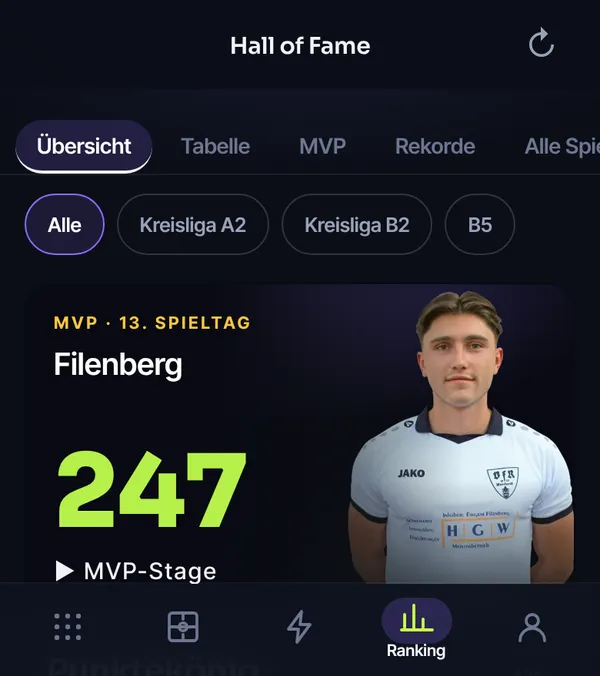
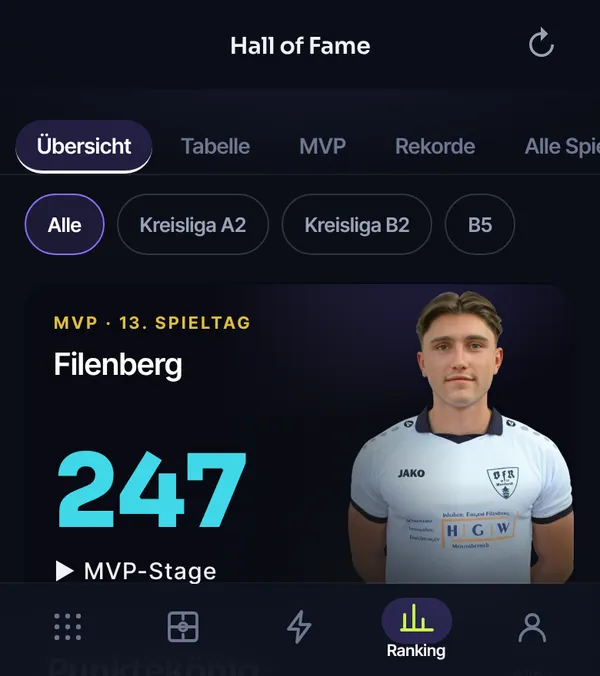
Punktefarben wie in Version 1, Dunkelgruen wird Kreo-Blau
- Stufen wieder rot/orange/hellgruen/gold mit den alten Grenzen (0/100/200/400)
- 200-399 Punkte und Trend nach oben jetzt Kreo-Blau (#3FD8E8) statt Dunkelgruen
- Minus-Farbe wieder wie frueher
- Rundgang-Bilder mit den Farben neu aufgenommen, Version 2.0.2

Claude-Session: https://claude.ai/code/session_01RQDoQ1KZNpAJJtEqobzs28

Changed region(s): [[0.09, 0.6524, 0.42, 0.8077]]

diff --git a/css/brand.css b/css/brand.css
@@ -236,7 +236,7 @@ body.ended .cta button { background: rgba(11, 14, 23, .88); color: var(--ink); b
 /* ---------- Spieltag-Karte (Liga) ---------- */
 .lh2 small { margin-left: 10px; font: 600 12px var(--font-body); letter-spacing: .08em; color: var(--muted2); text-transform: none; }
 .md-next { display: flex; align-items: center; gap: 10px; margin: -2px 0 12px; padding: 12px 14px; border-radius: 12px; background: var(--surface); font-size: 14px; }
-.md-next i { width: 8px; height: 8px; border-radius: 50%; background: #FFC83D; box-shadow: 0 0 0 4px rgba(255, 200, 61, .18); }
+.md-next i { width: 8px; height: 8px; border-radius: 50%; background: #E1BE38; box-shadow: 0 0 0 4px rgba(225, 190, 56, .18); }
 .md-next b { font-weight: 700; margin-right: 4px; }
 .md-next small { margin-left: auto; color: var(--muted); font-size: 12.5px; }
 .mdc { padding: 16px 14px 14px; border-radius: 16px; background: linear-gradient(180deg, #1A2032, var(--surface)); }
@@ -245,7 +245,7 @@ body.ended .cta button { background: rgba(11, 14, 23, .88); color: var(--ink); b
 .mdc-p .hav { width: 58px; height: 58px; border: 2px solid var(--c, var(--line)); }
 .mdc-p.r1 .hav { width: 76px; height: 76px; }
 .mdc-p i { position: absolute; top: -4px; left: calc(50% + 16px); width: 22px; height: 22px; border-radius: 50%; display: grid; place-items: center; background: var(--ink); color: var(--bg); font: 800 12px var(--font-display); font-style: normal; }
-.mdc-p.r1 i { left: calc(50% + 24px); background: #FFC83D; }
+.mdc-p.r1 i { left: calc(50% + 24px); background: #E1BE38; }
 .mdc-p span { max-width: 100%; font: 600 13.5px var(--font-body); overflow: hidden; text-overflow: ellipsis; white-space: nowrap; }
 .mdc-p b { font: 800 20px/1 var(--font-display); color: var(--ct); }
 .mdc-go { margin-top: 14px; min-height: 48px; display: flex; align-items: center; justify-content: center; gap: 8px; }
@@ -290,11 +290,11 @@ body.ended .cta button { background: rgba(11, 14, 23, .88); color: var(--ink); b
 .mp.on .mp-blk { transform: none; }
 .mp.on .mp-ph { opacity: 1; transform: none; }
 .mp.on .mp-n, .mp.on .mp-v { opacity: 1; }
-.r1.on .mp-blk { box-shadow: 0 -10px 60px rgba(255, 200, 61, .25); }
+.r1.on .mp-blk { box-shadow: 0 -10px 60px rgba(225, 190, 56, .25); }
 /* Trommelwirbel vor Platz 1 */
 .mvp.mvp-drum .mvp-pod::before { content: ""; position: absolute; left: 50%; bottom: 0; width: 34%; height: 22vh; transform: translateX(-50%); border-radius: 14px 14px 0 0;
-  background: rgba(255, 200, 61, .12); animation: mvpdrum .25s ease-in-out infinite alternate; }
-@keyframes mvpdrum { to { background: rgba(255, 200, 61, .3); } }
+  background: rgba(225, 190, 56, .12); animation: mvpdrum .25s ease-in-out infinite alternate; }
+@keyframes mvpdrum { to { background: rgba(225, 190, 56, .3); } }
 .mvp-cf { position: absolute; left: 50%; top: 35%; width: 8px; height: 13px; border-radius: 2px; pointer-events: none; z-index: 2; }
 .mvp-cta { flex: none; display: grid; grid-template-columns: 1fr 1.4fr; gap: 10px; margin-top: 16px; opacity: 0; transform: translateY(10px); transition: opacity .5s, transform .5s; pointer-events: none; }
 .mvp.mvp-done .mvp-cta { opacity: 1; transform: none; pointer-events: auto; }
@@ -338,7 +338,7 @@ body.ended .cta button { background: rgba(11, 14, 23, .88); color: var(--ink); b
 .hb-n small i { font-style: normal; font-weight: 600; }
 .hb-v { font: 800 20px/1 var(--font-display); color: var(--ct, var(--ink)); white-space: nowrap; }
 .hb-mvp { margin-bottom: 14px; }
-.hb-mvp .pw-k { color: #FFC83D; }
+.hb-mvp .pw-k { color: #E1BE38; }
 .hb-sort { display: flex; align-items: center; gap: 8px; margin-bottom: 12px; }
 .hb-sort button { min-height: 36px; padding: 0 14px; border-radius: 18px; border: 1px solid rgba(225, 230, 245, .18); background: none; color: var(--muted); font: 600 12px var(--font-body); letter-spacing: .06em; text-transform: uppercase; }
 .hb-sort button[aria-pressed="true"] { border-color: var(--ink); color: #fff; }
@@ -348,8 +348,8 @@ body.ended .cta button { background: rgba(11, 14, 23, .88); color: var(--ink); b
 #hofBody .mdc { margin-bottom: 12px; }
 
 /* Ankündigung MVP-Stage */
-.md-news { display: flex; align-items: center; gap: 10px; margin: -2px 0 12px; padding: 12px 6px 12px 14px; border-radius: 12px; border: 1px solid rgba(255, 200, 61, .4); background: rgba(255, 200, 61, .08); }
-.md-news-k { flex: none; padding: 3px 7px; border-radius: 5px; background: #FFC83D; color: #1f1600; font: 800 10.5px var(--font-body); letter-spacing: .1em; text-transform: uppercase; }
+.md-news { display: flex; align-items: center; gap: 10px; margin: -2px 0 12px; padding: 12px 6px 12px 14px; border-radius: 12px; border: 1px solid rgba(225, 190, 56, .4); background: rgba(225, 190, 56, .08); }
+.md-news-k { flex: none; padding: 3px 7px; border-radius: 5px; background: #E1BE38; color: #1f1600; font: 800 10.5px var(--font-body); letter-spacing: .1em; text-transform: uppercase; }
 .md-news b { flex: 1; font: 600 14px/1.3 var(--font-body); }
 .md-news-x { flex: none; width: 40px; height: 40px; border: 0; background: none; color: var(--muted); font: 300 26px/1 var(--font-body); }
 /* Spiel löschen (Korrektur-Modus) und Eintrager */
@@ -417,8 +417,8 @@ body.onehand #quick { display: none !important; }
 .trf-v span { font-size: 12.5px; color: var(--muted); }
 .trf-bar { height: 8px; margin-top: 12px; border-radius: 4px; background: var(--raised); overflow: hidden; }
 .trf-bar i { display: block; height: 100%; border-radius: 4px; background: var(--hi); }
-.trf.warn .trf-bar i { background: #8A93B0; }
-.trf.warn .trf-v strong { color: #8A93B0; }
+.trf.warn .trf-bar i { background: #ED8928; }
+.trf.warn .trf-v strong { color: #ED8928; }
 .trf-days { display: flex; align-items: flex-end; gap: 3px; height: 40px; margin-top: 12px; }
 .trf-days i { flex: 1; max-width: 12px; border-radius: 2px; background: rgba(225, 230, 245, .25); }
 

diff --git a/css/profile.css b/css/profile.css
@@ -57,7 +57,7 @@
 .pchips { display: flex; justify-content: center; flex-wrap: wrap; gap: 8px; margin-top: 14px; }
 .pchip { display: inline-flex; align-items: center; gap: 6px; min-height: 30px; padding: 0 12px; border-radius: 7px; background: #252D44; font: 600 14px var(--font-body); color: var(--ink); }
 .pchip .sti { width: 16px; height: 16px; }
-.pchip.st.hit { background: rgba(138, 147, 176, .2); color: #ffb067; }
+.pchip.st.hit { background: rgba(237, 137, 40, .2); color: #ffb067; }
 .pchip.st.inj { background: rgba(224, 52, 63, .2); color: #ff6a72; }
 
 .pbody { padding-top: 6px; }
@@ -102,7 +102,7 @@ body.multi .quick { top: calc(58px + var(--sqh, 88px) + env(safe-area-inset-top,
 .sqa { position: relative; width: 36px; height: 36px; border-radius: 50%; overflow: hidden; background: #252D44; }
 .sqa img { width: 170%; max-width: none; height: auto; display: block; margin: 1px 0 0 -35%; }
 .sqd { position: absolute; right: 1px; bottom: 1px; width: 10px; height: 10px; border-radius: 50%; background: #5D6580; box-shadow: 0 0 0 2px var(--surface); }
-.sqd.on { background: #B6F04A; }
+.sqd.on { background: #3FD8E8; }
 .sqn { max-width: 100%; font: 600 11.5px/1.2 var(--font-body); white-space: nowrap; overflow: hidden; text-overflow: ellipsis; color: var(--muted); }
 .sqb[aria-pressed="true"] .sqn { color: var(--ink); }
 .sqv { font: 800 15px/1 var(--font-display); color: var(--ct, var(--ink)); font-variant-numeric: tabular-nums; }
@@ -111,7 +111,7 @@ body.multi .quick { top: calc(58px + var(--sqh, 88px) + env(safe-area-inset-top,
 /* Aufstellung im Reiter „Spiel“ */
 .lups { list-style: none; margin: 0; padding: 0; display: grid; gap: 8px; }
 .lup { display: grid; grid-template-columns: 40px minmax(0, 1fr) auto; align-items: center; gap: 10px; padding: 8px 10px; border-radius: 14px; border: 1px solid var(--line); background: var(--surface); }
-.lup.on { border-color: rgba(182, 240, 74, .45); }
+.lup.on { border-color: rgba(63, 216, 232, .45); }
 .lup .hav { width: 40px; height: 40px; }
 .lup b { display: block; font: 600 15px var(--font-body); }
 .lup small { display: block; margin-top: 2px; color: var(--muted); font-size: 12px; }
@@ -155,8 +155,8 @@ body.multi .quick { top: calc(58px + var(--sqh, 88px) + env(safe-area-inset-top,
 .mw-r { display: flex; flex-wrap: wrap; align-items: center; gap: 6px; margin-top: 12px; font-size: 12.5px; }
 .mw-r b { font: 700 13px var(--font-body); margin-right: 2px; }
 .mw-r span { padding: 3px 8px; border-radius: 6px; background: rgba(255, 255, 255, .06); color: var(--muted); }
-.mw-r span.up { color: #B6F04A; background: rgba(182, 240, 74, .12); }
-.mw-r span.down { color: #ff6a4a; background: rgba(255, 92, 122, .12); }
+.mw-r span.up { color: #3FD8E8; background: rgba(63, 216, 232, .12); }
+.mw-r span.down { color: #ff6a4a; background: rgba(255, 90, 42, .12); }
 
 /* ---------- Mein Bereich ---------- */
 .mecard { display: grid; grid-template-columns: 52px minmax(0, 1fr) 14px; align-items: center; gap: 12px; width: 100%; margin: 4px 0 10px; padding: 12px; border-radius: 16px;
@@ -203,7 +203,7 @@ body.multi .quick { top: calc(58px + var(--sqh, 88px) + env(safe-area-inset-top,
 .vs-h { display: flex; align-items: baseline; gap: 8px; margin-bottom: 6px; font-size: 14px; }
 .vs-h span { flex: 1; color: var(--muted); }
 .vs-h b { font: 800 18px var(--font-display); }
-.vs-h b.up { color: #B6F04A; } .vs-h b.down { color: #ff6a4a; }
+.vs-h b.up { color: #3FD8E8; } .vs-h b.down { color: #ff6a4a; }
 .vs-h em { font-style: normal; font-size: 12.5px; color: var(--muted); }
 .vs-b { height: 7px; border-radius: 4px; background: rgba(255, 255, 255, .05); margin-top: 4px; overflow: hidden; }
 .vs-b i { display: block; height: 100%; border-radius: 4px; background: #5D6580; }
@@ -215,16 +215,16 @@ body.multi .quick { top: calc(58px + var(--sqh, 88px) + env(safe-area-inset-top,
 .ach.lv1 .ach-i, .ach.lv2 .ach-i, .ach.lv3 .ach-i { filter: none; opacity: 1; }
 .ach.lv1 .ach-i { background: rgba(205, 127, 50, .22); box-shadow: inset 0 0 0 1.5px #cd7f32; }
 .ach.lv2 .ach-i { background: rgba(200, 208, 220, .2); box-shadow: inset 0 0 0 1.5px #c8d0dc; }
-.ach.lv3 .ach-i { background: rgba(255, 200, 61, .22); box-shadow: inset 0 0 0 1.5px #FFC83D; }
+.ach.lv3 .ach-i { background: rgba(225, 190, 56, .22); box-shadow: inset 0 0 0 1.5px #E1BE38; }
 .ach b { display: flex; align-items: center; gap: 8px; font: 600 15px var(--font-body); }
 .ach-t { font: 700 10px var(--font-body); font-style: normal; letter-spacing: .08em; text-transform: uppercase; padding: 2px 6px; border-radius: 4px; }
 .lv1 .ach-t { background: rgba(205, 127, 50, .25); color: #e5a46a; }
 .lv2 .ach-t { background: rgba(200, 208, 220, .2); color: #dfe5ee; }
-.lv3 .ach-t { background: rgba(255, 200, 61, .25); color: #f0d36a; }
+.lv3 .ach-t { background: rgba(225, 190, 56, .25); color: #f0d36a; }
 .ach small { display: block; margin: 2px 0 7px; color: var(--muted); font-size: 12.5px; }
 .ach-bar { display: block; height: 5px; border-radius: 3px; background: rgba(255, 255, 255, .07); overflow: hidden; }
 .ach-bar i { display: block; height: 100%; border-radius: 3px; background: var(--kb-red); }
-.ach.lv3 .ach-bar i { background: #FFC83D; }
+.ach.lv3 .ach-bar i { background: #E1BE38; }
 
 .mrecs { display: grid; grid-template-columns: 1fr 1fr; gap: 10px; }
 .mrec { display: grid; gap: 4px; align-content: start; justify-items: start; padding: 14px 12px; border-radius: 14px; border: 1px solid var(--line); background: var(--surface); text-align: left; color: var(--ink); min-width: 0; }

diff --git a/css/sheet.css b/css/sheet.css
@@ -43,11 +43,11 @@ body.sheet-open { overflow: hidden; }
 .kb-g em { font-style: normal; }
 .fdash { display: flex; gap: 4px; margin-bottom: 14px; }
 .fdash i { flex: 1; height: 5px; border-radius: 3px; background: rgba(225, 230, 245, .12); }
-.fdash i[data-tier="neg"] { background: #D63A5A; }
-.fdash i[data-tier="low"] { background: #8A93B0; }
-.fdash i[data-tier="mid"] { background: #3FD8E8; }
-.fdash i[data-tier="high"] { background: #B6F04A; }
-.fdash i[data-tier="top"] { background: #FFC83D; }
+.fdash i[data-tier="neg"] { background: #B3202A; }
+.fdash i[data-tier="low"] { background: #ED8928; }
+.fdash i[data-tier="mid"] { background: #9CE04A; }
+.fdash i[data-tier="high"] { background: #3FD8E8; }
+.fdash i[data-tier="top"] { background: #E1BE38; }
 .kb-arr { position: absolute; top: 10px; left: 14px; font: 700 20px/1 var(--font-body); font-style: normal; }
 .bsheet .up { color: var(--hi); } .bsheet .down { color: var(--neg); } .bsheet .flat { color: var(--muted); }
 
@@ -69,13 +69,13 @@ body.sheet-open { overflow: hidden; }
 .kbst > div:first-child { display: flex; align-items: center; gap: 10px; min-width: 0; flex-wrap: wrap; }
 .kbst small { color: var(--muted); font-size: 12.5px; }
 .kb-ok { width: 26px; height: 26px; border-radius: 50%; display: grid; place-items: center; font: 800 14px/1 var(--font-body); font-style: normal; background: var(--hi); color: #03170C; }
-.kb-ok.hit { background: #8A93B0; color: #1A1000; }
-.kb-ok.inj { background: #FF5C7A; color: #fff; }
+.kb-ok.hit { background: #ED8928; color: #1A1000; }
+.kb-ok.inj { background: #E0343F; color: #fff; }
 .kb-cards { display: flex; gap: 12px; flex: none; font: 600 14px var(--font-body); }
 .kb-cards span { display: inline-flex; align-items: center; gap: 5px; }
 .kb-cards i { width: 12px; height: 16px; border-radius: 2px; }
 .kb-cards .cy { background: #F5C518; }
-.kb-cards .cr { background: #FF5C7A; }
+.kb-cards .cr { background: #E0343F; }
 
 /* ---------- Marktwert ---------- */
 .mwh { display: flex; align-items: flex-start; justify-content: space-between; gap: 12px; margin: 22px 0 10px; }
@@ -126,9 +126,9 @@ body.sheet-open { overflow: hidden; }
 .shb.lv0 svg { opacity: .55; }
 .shb.lv1 { --c: #cd7f32; --f: #2a1d12; }
 .shb.lv2 { --c: #c8d0dc; --f: #23272e; }
-.shb.lv3 { --c: #FFC83D; --f: #2a2410; }
+.shb.lv3 { --c: #E1BE38; --f: #2a2410; }
 .shb.sp.lv3 { --c: #8B6CFF; --f: #1f1730; }
-.shb.lv3 svg { filter: drop-shadow(0 0 8px rgba(255, 200, 61, .35)); }
+.shb.lv3 svg { filter: drop-shadow(0 0 8px rgba(225, 190, 56, .35)); }
 .shb.sp.lv3 svg { filter: drop-shadow(0 0 8px rgba(139, 108, 255, .4)); }
 
 /* ---------- Ruhiger, minimalistischer ---------- */

diff --git a/css/tokens.css b/css/tokens.css
@@ -7,24 +7,24 @@
   --line: rgba(225, 230, 245, .12);
   --ink: #F1F3FA;
   --muted: #9AA2B8;
-  --lime: #3FD8E8;
-  --hi: #B6F04A;
-  --neg: #FF5C7A;
-  --lime-bg: rgba(63, 216, 232, .14);
-  --hi-bg: rgba(182, 240, 74, .15);
-  --neg-bg: rgba(255, 92, 122, .15);
-  --tier: #8A93B0;
-  --tier-rgb: 138, 147, 176;
+  --lime: #9CE04A;
+  --hi: #3FD8E8;
+  --neg: #FF5A2A;
+  --lime-bg: rgba(156, 224, 74, .14);
+  --hi-bg: rgba(63, 216, 232, .15);
+  --neg-bg: rgba(255, 90, 42, .15);
+  --tier: #F28C1B;
+  --tier-rgb: 242, 140, 27;
   --on-tier: #1A1000;
-  --tier-text: #8A93B0;
+  --tier-text: #F28C1B;
   --kb-red: #8B6CFF; --kb-red-rgb: 139, 108, 255; /* alter Variablenname, heute = Akzentfarbe */
   --muted2: #6E7690;
   --font-display: 'Kreo Display', 'Arial Black', system-ui, sans-serif;
   --font-body: 'Inter Tight', system-ui, -apple-system, 'Segoe UI', sans-serif;
 }
-/* Stufen: Minus dunkelrot, 0-99 orange, 100-199 hellgrün, 200-399 dunkelgrün, ab 400 gold */
-body[data-tier="neg"]     { --tier: #D63A5A; --tier-rgb: 214, 58, 90;  --on-tier: #FFFFFF; --tier-text: #FF5C7A; }
-body[data-tier="low"]  { --tier: #8A93B0; --tier-rgb: 138, 147, 176; --on-tier: #1A1000; --tier-text: #8A93B0; }
-body[data-tier="mid"]    { --tier: #3FD8E8; --tier-rgb: 63, 216, 232; --on-tier: #0F1C06; --tier-text: #3FD8E8; }
-body[data-tier="high"] { --tier: #B6F04A; --tier-rgb: 182, 240, 74; --on-tier: #03170C; --tier-text: #B6F04A; }
-body[data-tier="top"]    { --tier: #FFC83D; --tier-rgb: 255, 200, 61; --on-tier: #1F1600; --tier-text: #FFC83D; }
+/* Stufen: Minus dunkelrot, 0-99 orange, 100-199 hellgrün, 200-399 Kreo-Blau, ab 400 gold */
+body[data-tier="neg"]     { --tier: #B3202A; --tier-rgb: 179, 32, 42;  --on-tier: #FFFFFF; --tier-text: #E0343F; }
+body[data-tier="low"]  { --tier: #ED8928; --tier-rgb: 237, 137, 40; --on-tier: #1A1000; --tier-text: #ED8928; }
+body[data-tier="mid"]    { --tier: #9CE04A; --tier-rgb: 156, 224, 74; --on-tier: #0F1C06; --tier-text: #9CE04A; }
+body[data-tier="high"] { --tier: #3FD8E8; --tier-rgb: 63, 216, 232; --on-tier: #03170C; --tier-text: #3FD8E8; }
+body[data-tier="top"]    { --tier: #E1BE38; --tier-rgb: 225, 190, 56; --on-tier: #1F1600; --tier-text: #E1BE38; }

diff --git a/css/booking.css b/css/booking.css
@@ -62,7 +62,7 @@
 }
 .btn:active { transform: scale(.97); }
 .btn.primary { background: var(--tier); border-color: var(--tier); color: var(--on-tier); }
-.btn.danger { background: transparent; color: var(--neg); border-color: rgba(255, 92, 122, .5); }
+.btn.danger { background: transparent; color: var(--neg); border-color: rgba(255, 90, 42, .5); }
 .btn[disabled] { opacity: .4; cursor: not-allowed; }
 .seg { display: inline-flex; border: 1px solid var(--line); border-radius: 12px; overflow: hidden; }
 .seg button { border: 0; background: var(--raised); padding: 10px 20px; min-height: 48px; font-weight: 600; }
@@ -144,7 +144,7 @@ textarea#sum {
 .ga-grab i { width: 38px; height: 5px; border-radius: 3px; background: rgba(225, 230, 245, .4); }
 .ga-head { flex: none; display: flex; align-items: center; gap: 10px; padding: 4px 8px 8px 16px; }
 .ga-head .ga-k { font: 700 12px var(--font-body); letter-spacing: .12em; text-transform: uppercase; padding: 5px 9px; border-radius: 6px; }
-.ga-k.us { background: rgba(182, 240, 74, .14); color: #B6F04A; }
+.ga-k.us { background: rgba(63, 216, 232, .14); color: #3FD8E8; }
 .ga-k.them { background: rgba(224, 52, 63, .16); color: #ff6b74; }
 .ga-head b { font: 800 26px/1 var(--font-display); white-space: nowrap; }
 .ga-head small { margin-left: auto; color: var(--muted); font-size: 14px; }
@@ -156,7 +156,7 @@ textarea#sum {
 .ga-st span { min-width: 0; }
 .ga-st small { display: block; font: 600 10.5px var(--font-body); letter-spacing: .08em; text-transform: uppercase; }
 .ga-st b { display: block; font: 600 13.5px var(--font-body); color: var(--ink); overflow: hidden; text-overflow: ellipsis; white-space: nowrap; }
-.ga-st.done i { background: #B6F04A; color: #03170c; }
+.ga-st.done i { background: #3FD8E8; color: #03170c; }
 .ga-st.on { border-color: var(--ink); background: rgba(225, 230, 245, .06); color: var(--ink); }
 .ga-body { flex: 1; min-height: 0; overflow-y: auto; overscroll-behavior: contain; -webkit-overflow-scrolling: touch; padding: 2px 16px 20px; }
 .ga-body h3 { margin: 18px 0 10px; font: 700 17px/1.2 var(--font-body); color: var(--ink); letter-spacing: 0; text-transform: none; }

diff --git a/css/views.css b/css/views.css
@@ -23,17 +23,17 @@
 .lgs { display: flex; gap: 8px; margin-bottom: 18px; }
 .lgs button { min-height: 40px; padding: 0 18px; border-radius: 20px; border: 1px solid var(--line); background: var(--surface); font-weight: 600; font-size: 13px; color: var(--muted); }
 .lgs button[aria-pressed="true"] { background: var(--ink); color: var(--bg); border-color: var(--ink); }
-.tc[data-tier="neg"]     { --c: #D63A5A; --ct: #FF5C7A; }
-.tc[data-tier="low"]  { --c: #8A93B0; --ct: #8A93B0; }
-.tc[data-tier="mid"]    { --c: #3FD8E8; --ct: #3FD8E8; }
-.tc[data-tier="high"] { --c: #B6F04A; --ct: #B6F04A; }
-.tc[data-tier="top"]    { --c: #FFC83D; --ct: #FFC83D; }
+.tc[data-tier="neg"]     { --c: #B3202A; --ct: #E0343F; }
+.tc[data-tier="low"]  { --c: #ED8928; --ct: #ED8928; }
+.tc[data-tier="mid"]    { --c: #9CE04A; --ct: #9CE04A; }
+.tc[data-tier="high"] { --c: #3FD8E8; --ct: #3FD8E8; }
+.tc[data-tier="top"]    { --c: #E1BE38; --ct: #E1BE38; }
 .glist { list-style: none; margin: 0; padding: 0; display: grid; gap: 8px; }
 .gr { display: grid; grid-template-columns: 28px 48px minmax(0, 1fr) auto; align-items: center; gap: 10px; padding: 10px 14px 10px 10px; background: var(--surface); border: 1px solid var(--line); border-radius: 14px; width: 100%; text-align: left; }
 .gr.nr { grid-template-columns: 48px minmax(0, 1fr) auto; }
 button.gr:active { background: var(--raised); }
 .rk { text-align: center; font: 700 18px var(--font-display); font-stretch: 125%; color: var(--muted); }
-.rk.r1 { color: #FFC83D; } .rk.r2 { color: #C9D1D9; } .rk.r3 { color: #CD8B50; }
+.rk.r1 { color: #E1BE38; } .rk.r2 { color: #C9D1D9; } .rk.r3 { color: #CD8B50; }
 .hav { width: 48px; height: 48px; border-radius: 50%; overflow: hidden; background: var(--raised); display: block; }
 .hav img { width: 100%; height: 100%; object-fit: cover; object-position: 50% 8%; display: block; }
 .gi { min-width: 0; }

diff --git a/css/live.css b/css/live.css
@@ -70,13 +70,13 @@
   box-shadow: 0 6px 18px rgba(0, 0, 0, .5);
 }
 .cta .ic { font-size: 20px; line-height: 1; font-weight: 600; }
-body[data-tier="top"] .cta button { background: linear-gradient(135deg, #FFE08A, #F5A623); }
+body[data-tier="top"] .cta button { background: linear-gradient(135deg, #F7D96B, #D9A21B); }
 .cta button:active { transform: scale(.98); }
 
 /* ---------- Endübersicht ---------- */
 .ended .num { color: var(--tier-text); }
 body[data-tier="top"].ended .num {
-  background: linear-gradient(135deg, #FFE08A, #F5A623); -webkit-background-clip: text; background-clip: text;
+  background: linear-gradient(135deg, #F7D96B, #D9A21B); -webkit-background-clip: text; background-clip: text;
   color: transparent; -webkit-text-fill-color: transparent;
 }
 .sec {
@@ -90,11 +90,11 @@ body[data-tier="top"].ended .num {
 .chart { display: flex; gap: 6px; overflow-x: auto; padding-bottom: 8px; scrollbar-width: none; }
 .chart::-webkit-scrollbar { display: none; }
 .col { flex: 0 0 64px; display: flex; flex-direction: column; align-items: center; min-width: 0; }
-.col[data-tier="neg"]     { --c: #D63A5A; --ct: #FF5C7A; }
-.col[data-tier="low"]  { --c: #8A93B0; --ct: #8A93B0; }
-.col[data-tier="mid"]    { --c: #3FD8E8; --ct: #3FD8E8; }
-.col[data-tier="high"] { --c: #B6F04A; --ct: #B6F04A; }
-.col[data-tier="top"]    { --c: #FFC83D; --ct: #FFC83D; }
+.col[data-tier="neg"]     { --c: #B3202A; --ct: #E0343F; }
+.col[data-tier="low"]  { --c: #ED8928; --ct: #ED8928; }
+.col[data-tier="mid"]    { --c: #9CE04A; --ct: #9CE04A; }
+.col[data-tier="high"] { --c: #3FD8E8; --ct: #3FD8E8; }
+.col[data-tier="top"]    { --c: #E1BE38; --ct: #E1BE38; }
 .ci { height: 18px; font: 500 15px/1 var(--font-body); color: var(--muted); }
 .col.cur .ci { color: var(--ink); }
 .cc { display: flex; align-items: center; gap: 4px; height: 22px; margin: 12px 0 8px; }

diff --git a/css/admin.css b/css/admin.css
@@ -15,7 +15,7 @@
 /* Toast */
 .toast { position: fixed; left: 50%; bottom: calc(96px + env(safe-area-inset-bottom, 0px)); transform: translate(-50%, 20px); z-index: 60; max-width: calc(100% - 32px); padding: 12px 18px; border-radius: 12px; background: #e9edf2; color: #0B0E17; font: 600 14px var(--font-body); box-shadow: 0 12px 30px rgba(0, 0, 0, .5); opacity: 0; pointer-events: none; transition: opacity .2s, transform .2s; }
 .toast.show { opacity: 1; transform: translate(-50%, 0); }
-.toast.bad { background: #FF5C7A; color: #fff; }
+.toast.bad { background: #FF5A2A; color: #fff; }
 
 /* Formulare */
 .form { display: grid; gap: 12px; }
@@ -27,8 +27,8 @@
 .fi:focus { outline: none; border-color: var(--kb-red); box-shadow: 0 0 0 3px rgba(var(--kb-red-rgb), .2); }
 select.fi { appearance: none; background-image: linear-gradient(45deg, transparent 50%, var(--muted) 50%), linear-gradient(135deg, var(--muted) 50%, transparent 50%); background-position: calc(100% - 20px) 50%, calc(100% - 15px) 50%; background-size: 5px 5px; background-repeat: no-repeat; padding-right: 36px; }
 input[type="date"].fi { color-scheme: dark; }
-.form-msg { padding: 10px 12px; border-radius: 10px; background: rgba(182, 240, 74, .12); color: var(--hi); font-size: 14px; }
-.form-msg.bad { background: rgba(255, 92, 122, .12); color: var(--neg); }
+.form-msg { padding: 10px 12px; border-radius: 10px; background: rgba(63, 216, 232, .12); color: var(--hi); font-size: 14px; }
+.form-msg.bad { background: rgba(255, 90, 42, .12); color: var(--neg); }
 .chk { display: flex; align-items: center; gap: 10px; font-size: 14px; color: var(--ink); }
 .chk input { width: 22px; height: 22px; accent-color: var(--kb-red); }
 .segl { flex: 1; position: relative; }

diff --git a/js/ui/profile.js b/js/ui/profile.js
@@ -109,7 +109,7 @@ function mwChart(s) {
   let lo = Math.min(...vs), hi = Math.max(...vs); if (hi === lo) { hi += 1; lo -= 1; }
   const X = t => ((t - t0) / Math.max(1, t1 - t0)) * W, Y = v => H - 10 - ((v - lo) / (hi - lo)) * (H - 20);
   const d = s.map((x, i) => (i ? 'L' : 'M') + X(x.t).toFixed(1) + ' ' + Y(x.v).toFixed(1)).join('');
-  const up = s[s.length - 1].v >= s[0].v, c = up ? '#B6F04A' : '#FF5C7A';
+  const up = s[s.length - 1].v >= s[0].v, c = up ? '#3FD8E8' : '#FF5A2A';
   const pick = state.pick != null && s[state.pick] ? s[state.pick] : null;
   return '<svg class="mwc" viewBox="0 0 ' + W + ' ' + H + '" preserveAspectRatio="none" data-pf="mwchart"><path d="' + d + '" fill="none" stroke="' + c + '" stroke-width="2.2" vector-effect="non-scaling-stroke" stroke-linejoin="round"/>' +
     (pick ? '<line x1="' + X(pick.t).toFixed(1) + '" x2="' + X(pick.t).toFixed(1) + '" y1="0" y2="' + H + '" stroke="#F1F3FA" stroke-width="1" vector-effect="non-scaling-stroke"/>' : '') + '</svg>';

diff --git a/css/theme.css b/css/theme.css
@@ -93,7 +93,7 @@ body { font-size: 15px; }
 .pw-m img { width: 22px; height: 22px; object-fit: contain; }
 .gr { grid-template-columns: 30px 48px minmax(0, 1fr) auto; }
 .rk { width: 30px; height: 30px; display: grid; place-items: center; border-radius: 8px; background: rgba(225, 230, 245, .07); font: 800 15px var(--font-display); color: var(--muted); }
-.rk.r1 { background: rgba(255, 200, 61, .16); color: #FFC83D; } .rk.r2 { background: rgba(201, 209, 217, .14); color: #C9D1D9; } .rk.r3 { background: rgba(205, 139, 80, .16); color: #CD8B50; }
+.rk.r1 { background: rgba(225, 190, 56, .16); color: #E1BE38; } .rk.r2 { background: rgba(201, 209, 217, .14); color: #C9D1D9; } .rk.r3 { background: rgba(205, 139, 80, .16); color: #CD8B50; }
 .gi b { font-family: var(--font-body); font-weight: 600; font-size: 16px; }
 .gs { font-family: var(--font-body); }
 .gv { font: 800 24px/1 var(--font-display); letter-spacing: -.02em; }

diff --git a/js/ui/components.js b/js/ui/components.js
@@ -85,7 +85,7 @@ export function sparkline(series) {
   let min = Math.min(...vs), max = Math.max(...vs);
   if (max === min) { max += 1; min -= 1; }
   const pts = series.map((x, i) => [(i / (series.length - 1)) * W, H - 6 - (x.v - min) / (max - min) * (H - 12)]);
-  const up = vs[vs.length - 1] >= vs[0], c = up ? '#B6F04A' : '#FF5C7A', id = 'sg' + (++sparkId);
+  const up = vs[vs.length - 1] >= vs[0], c = up ? '#3FD8E8' : '#FF5A2A', id = 'sg' + (++sparkId);
   const line = pts.map(p => p[0].toFixed(1) + ',' + p[1].toFixed(1)).join(' ');
   const last = pts[pts.length - 1];
   return '<svg class="spark" viewBox="0 0 ' + W + ' ' + H + '" preserveAspectRatio="none" aria-hidden="true"><defs><linearGradient id="' + id + '" x1="0" x2="0" y1="0" y2="1"><stop offset="0" stop-color="' + c + '" stop-opacity=".28"/><stop offset="1" stop-color="' + c + '" stop-opacity="0"/></linearGradient></defs>' +

diff --git a/js/ui/intro.js b/js/ui/intro.js
@@ -9,7 +9,7 @@ import { ACT } from '../core/game.js';
 import { qrSvg } from '../core/qr.js';
 import { KEYS, APP_URL, APP_NAME } from '../config.js';
 
-const IMG = 'assets/img/tut/', V = '.webp?v=4'; // neue Bilder: v hochzählen (der Service Worker hält Bilder sonst für immer)
+const IMG = 'assets/img/tut/', V = '.webp?v=5'; // neue Bilder: v hochzählen (der Service Worker hält Bilder sonst für immer)
 /* Folien: { s: Screenshot der App } oder { f: Foto von uns, chips: [[Aktion, Punkte]], inset: kleiner Screenshot, logo } */
 const APP = [
   { f: 'f-duell', logo: 1, t: 'Willkommen bei Kreo', x: 'Unsere Kreisliga mit Punkten, Marktwerten und Live-Ticker – direkt vom Spielfeldrand.' },
